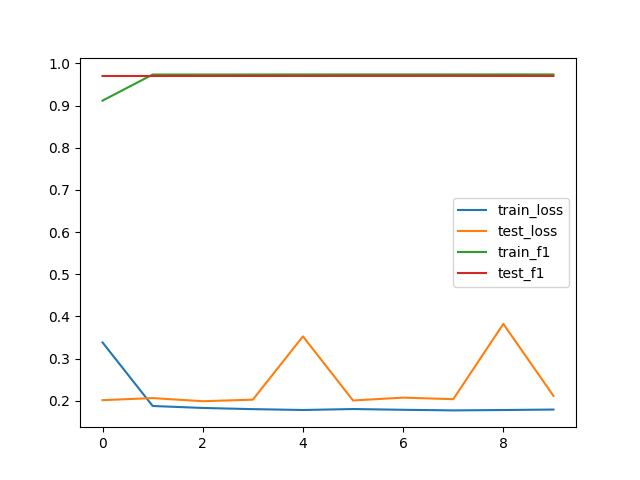
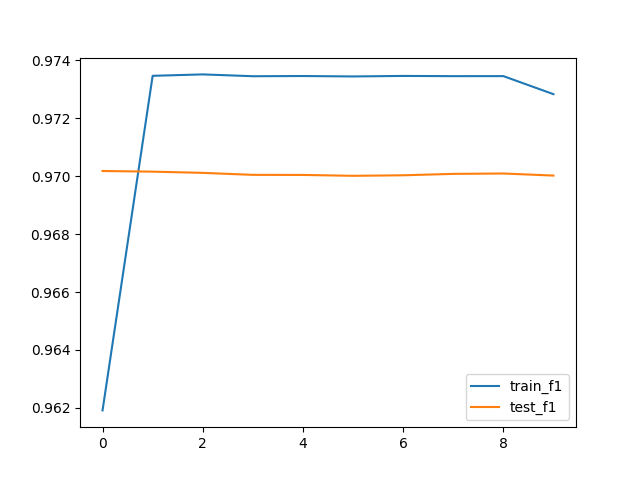
interval update

diff --git a/LSTM_modelF_withTimeInterval.py b/LSTM_modelF_withTimeInterval.py
@@ -218,6 +218,7 @@ pyplot.plot(history.history['val_loss'], label='test_loss')
 pyplot.legend()
 pyplot.savefig('./images/loss_' + image_name)
 pyplot.show()
+pyplot.gcf().clear()
 pyplot.plot(history.history['fmeasure'], label='train_f1')
 pyplot.plot(history.history['val_fmeasure'], label='test_f1')
 pyplot.legend()
@@ -232,6 +233,7 @@ pyplot.plot(history.history['val_recall'], label='test_r')
 pyplot.legend()
 pyplot.savefig('./images/pr_' + image_name)
 pyplot.show()
+pyplot.gcf().clear()
 # pyplot.show()
 ''' 
 # make a prediction
